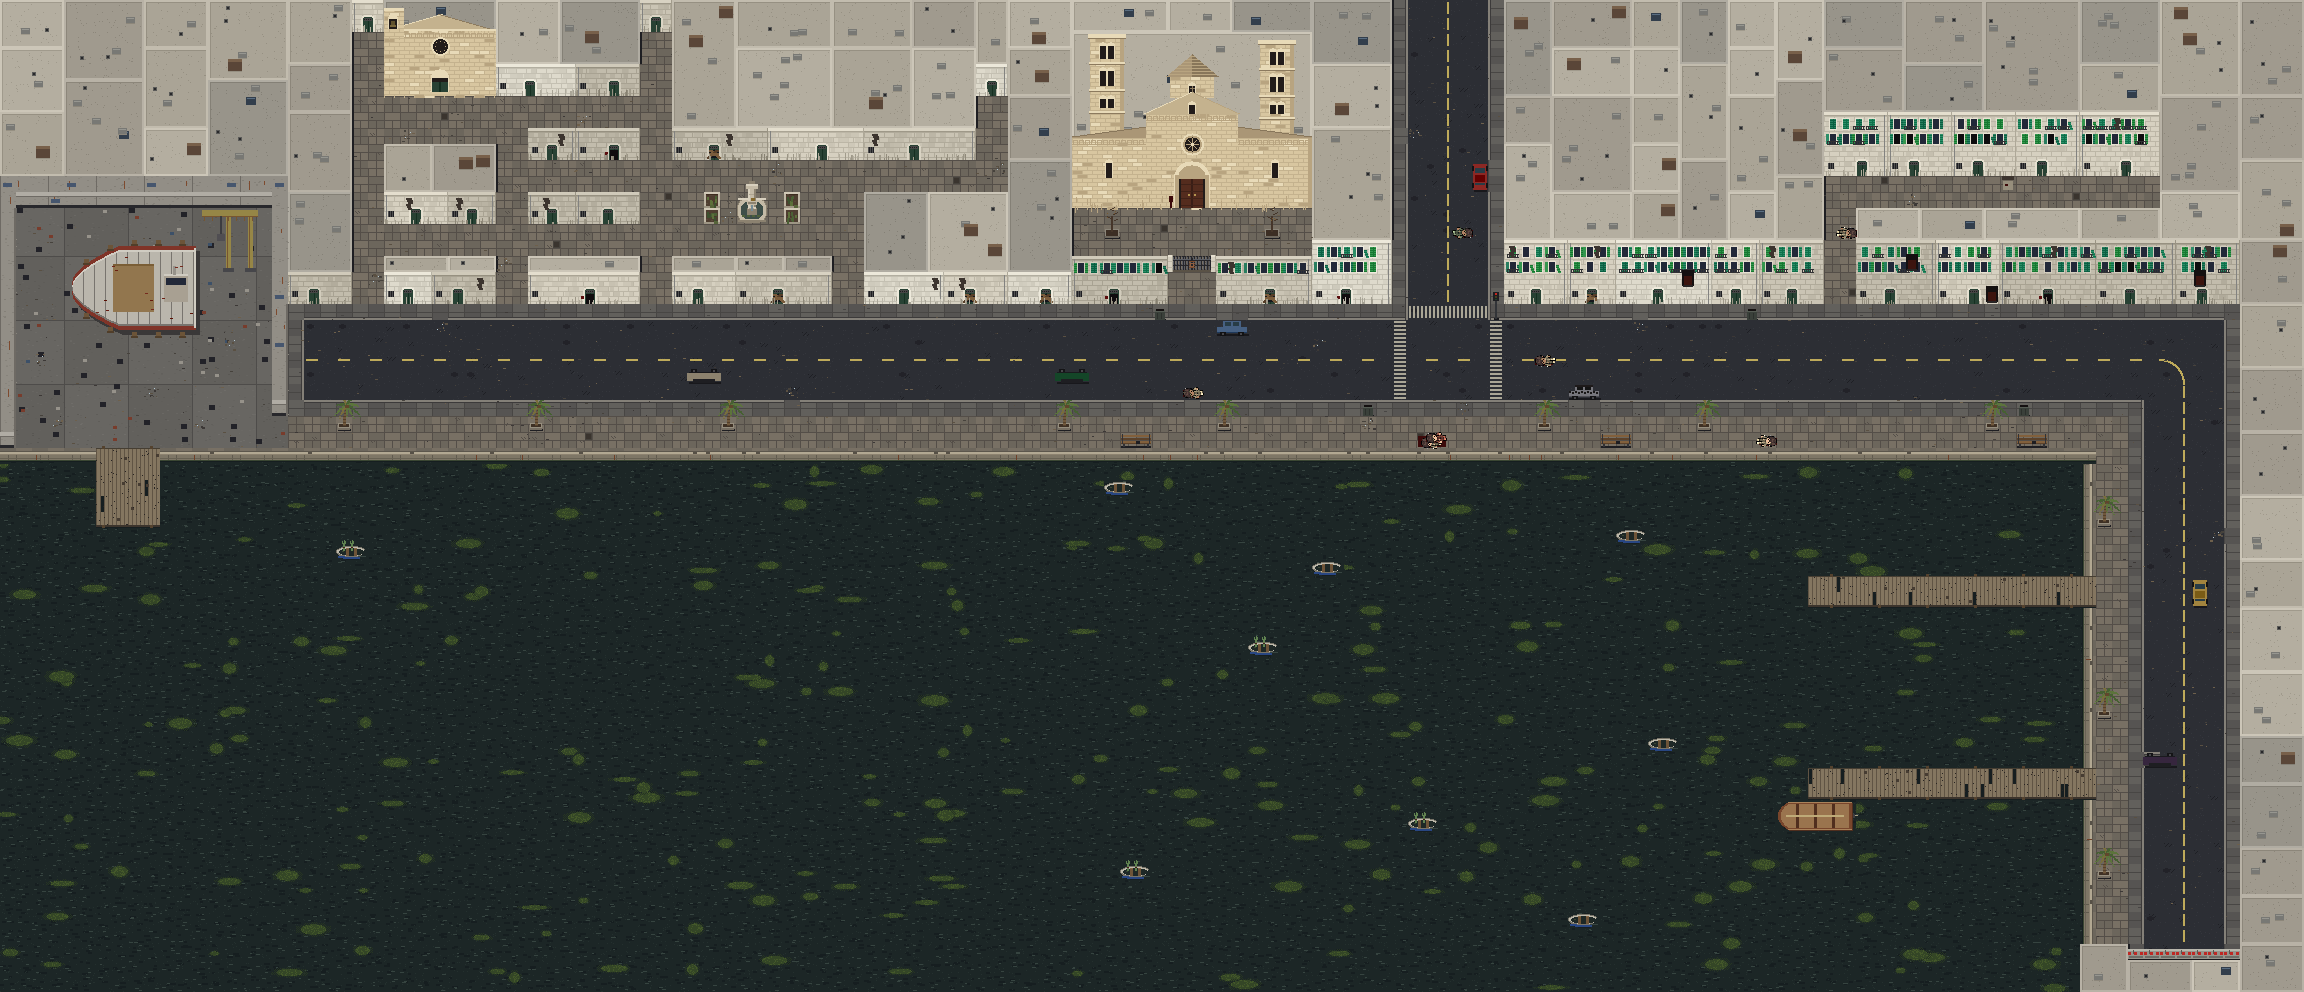
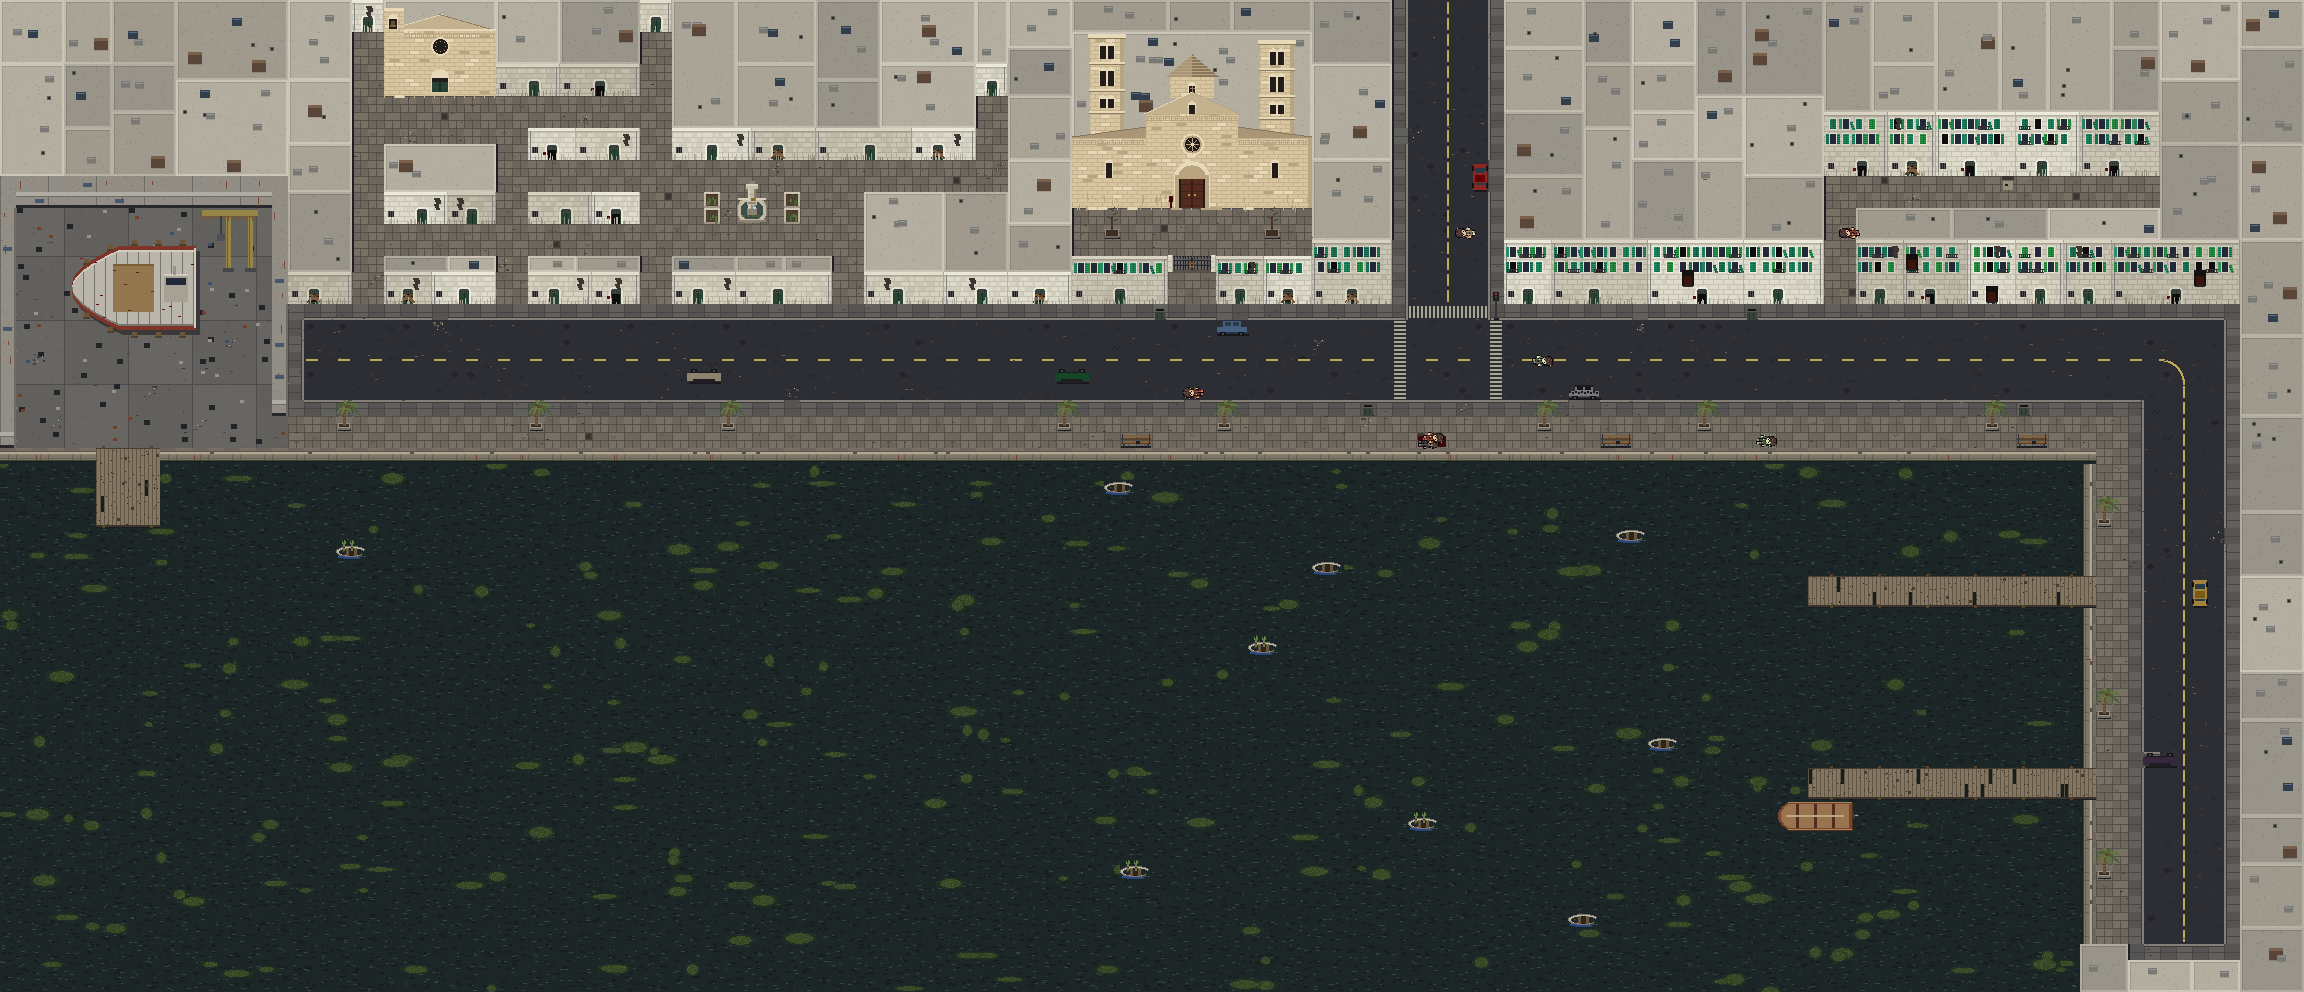
fix: il porto chiude la strada con i palazzi, e i due falo si salvano
Via i blocchi di cemento che sbarravano la discesa dalla piazza: la
strada ora finisce contro i palazzi che gia stavano li, con il
marciapiede portato attraverso l'imbocco, come fanno tutte le altre
strade che si chiudono.

Aggiunto un test che usa davvero il falo nuovo dopo il primo: si riposa
all'accampamento del quartiere nord con uno zombi abbattuto e delle
cartucce spese, si salva, si ricarica, si riposa a quello dietro il
centro commerciale, si salva e si ricarica di nuovo. Controlla che i due
accampamenti abbiano nomi diversi nelle slot e che quello che teneva il
primo salvataggio sia ancora li dopo il secondo.

diff --git a/test/tutorial_level_test.dart b/test/tutorial_level_test.dart
@@ -1076,6 +1076,62 @@ void main() {
       expect(restored.player.component<AmmoComponent>().loaded, 3);
       expect(restored.map.width, world.map.width);
     });
+
+    test('saving at the new camp behind the mall, after the first one, '
+        'carries everything through both', () {
+      GridPoint campIn(WorldState world, PlaceId id) =>
+          world.campfires.firstWhere(place(id).bounds.contains);
+
+      Map<String, Object?> rest(WorldState world, GridPoint camp) {
+        world.player.component<PositionComponent>()
+          ..position = camp.step(Direction.west)
+          ..facing = Direction.east;
+        final events = const TurnScheduler().advance(
+          world,
+          const InteractAction(),
+        );
+        expect(events.whereType<CampfireUsedEvent>().single.at, camp);
+        return throughStorage(saveTutorialWorld(world));
+      }
+
+      final world = createTutorialWorld();
+      final first = campIn(world, PlaceId.northDistrict);
+      final second = campIn(world, PlaceId.mallNorthStreet);
+      expect(campfireNames[first], 'Accampamento dietro la caserma');
+      expect(
+        campfireNames[second],
+        'Accampamento dietro il centro commerciale',
+        reason: 'the two camps are told apart in the save slots',
+      );
+
+      // Rest at the first camp with a zombie down and some rounds spent.
+      final zombie = world.entities.values.firstWhere(
+        (entity) => entity.kind != EntityKind.player,
+      );
+      zombie.component<HealthComponent>().current = 0;
+      world.player.component<AmmoComponent>().loaded = 3;
+      final loaded = restoreTutorialWorld(rest(world, first));
+      expect(loaded.entities[zombie.id]!.isAlive, isFalse);
+      expect(
+        loaded.player.component<PositionComponent>().position,
+        first.step(Direction.west),
+      );
+
+      // Then rest at the new one, and load that save in turn.
+      final again = restoreTutorialWorld(rest(loaded, second));
+      expect(again.campfires, contains(second));
+      expect(
+        again.entities[zombie.id]!.isAlive,
+        isFalse,
+        reason: 'what the first save held survives the second',
+      );
+      expect(again.player.component<AmmoComponent>().loaded, 3);
+      expect(
+        again.player.component<PositionComponent>().position,
+        second.step(Direction.west),
+        reason: 'Mario is left sitting at the camp he saved at',
+      );
+    });
   });
 
   test('the whole world survives a save and a load', () {

diff --git a/lib/core/levels/tutorial/harbour.dart b/lib/core/levels/tutorial/harbour.dart
@@ -3,8 +3,9 @@
 
 /// The harbour and the old town, south of the north district (same glyphs
 /// as the street): the road from the square comes down between the old
-/// town's palazzi to the seafront road, which runs a long way west; beyond
-/// it the promenade with its palms, then the parapet and the murky sea,
+/// town's palazzi and ends against them, the pavement carried across its
+/// mouth; the seafront road it feeds runs a long way west, and beyond
+/// that the promenade with its palms, then the parapet and the murky sea,
 /// scummed with green, where rowboats rot half-sunk.
 ///
 /// West of the Duomo the alleys of the old town climb off the seafront
@@ -90,7 +91,7 @@ const List<String> harbourRows = <String>[
   '~~~~~~~~~~~~~~~~~~~~~~~~~~~~~~~~~~~~~~~~~~~~~~~~~~~~~~~~~~~~~~~~~~~~~~~~~~~~~~~~~~~~~~~~~~~~~~~~~~~~~~~~~~~~~~~~~~~~~~~~~~~~~~~~~~RPP=..|..=BBBB',
   '~~~~~~~~~~~~~~~~~~~~~~~~~~~~~~~~~~~~~~~~~~~~~~~~~~~~~~~~~~~~~~~~~~~~~~~~~~~~~~~~~~~~~~~~~~~~~~~~~~bb~~~~~~~~~~~~~~~~~~~~~~~~~~~~~~RPP=..|..=BBBB',
   '~~~~~~~~~~~~~~~~~~~~~~~~~~~~~~~~~~~~~~~~~~~~~~~~~~~~~~~~~~~~~~~~~~~~~~~~~~~~~~~~~~~~~~~~~~~~~~~~~~~~~~~~~~~~~~~~~~~~~~~~~~~~~~~~~~RPP=..|..=BBBB',
-  '~~~~~~~~~~~~~~~~~~~~~~~~~~~~~~~~~~~~~~~~~~~~~~~~~~~~~~~~~~~~~~~~~~~~~~~~~~~~~~~~~~~~~~~~~~~~~~~~~~~~~~~~~~~~~~~~~~~~~~~~~~~~~~~~~~BBBJJJJJJJBBBB',
+  '~~~~~~~~~~~~~~~~~~~~~~~~~~~~~~~~~~~~~~~~~~~~~~~~~~~~~~~~~~~~~~~~~~~~~~~~~~~~~~~~~~~~~~~~~~~~~~~~~~~~~~~~~~~~~~~~~~~~~~~~~~~~~~~~~~BBB=======BBBB',
   '~~~~~~~~~~~~~~~~~~~~~~~~~~~~~~~~~~~~~~~~~~~~~~~~~~~~~~~~~~~~~~~~~~~~~~~~~~~~~~~~~~~~~~~~~~~~~~~~~~~~~~~~~~~~~~~~~~~~~~~~~~~~~~~~~~BBBBBBBBBBBBBB',
   '~~~~~~~~~~~~~~~~~~~~~~~~~~~~~~~~~~~~~~~~~~~~~~~~~~~~~~~~~~~~~~~~~~~~~~~~~~~~~~~~~~~~~~~~~~~~~~~~~~~~~~~~~~~~~~~~~~~~~~~~~~~~~~~~~~BBBBBBBBBBBBBB',
 ];
